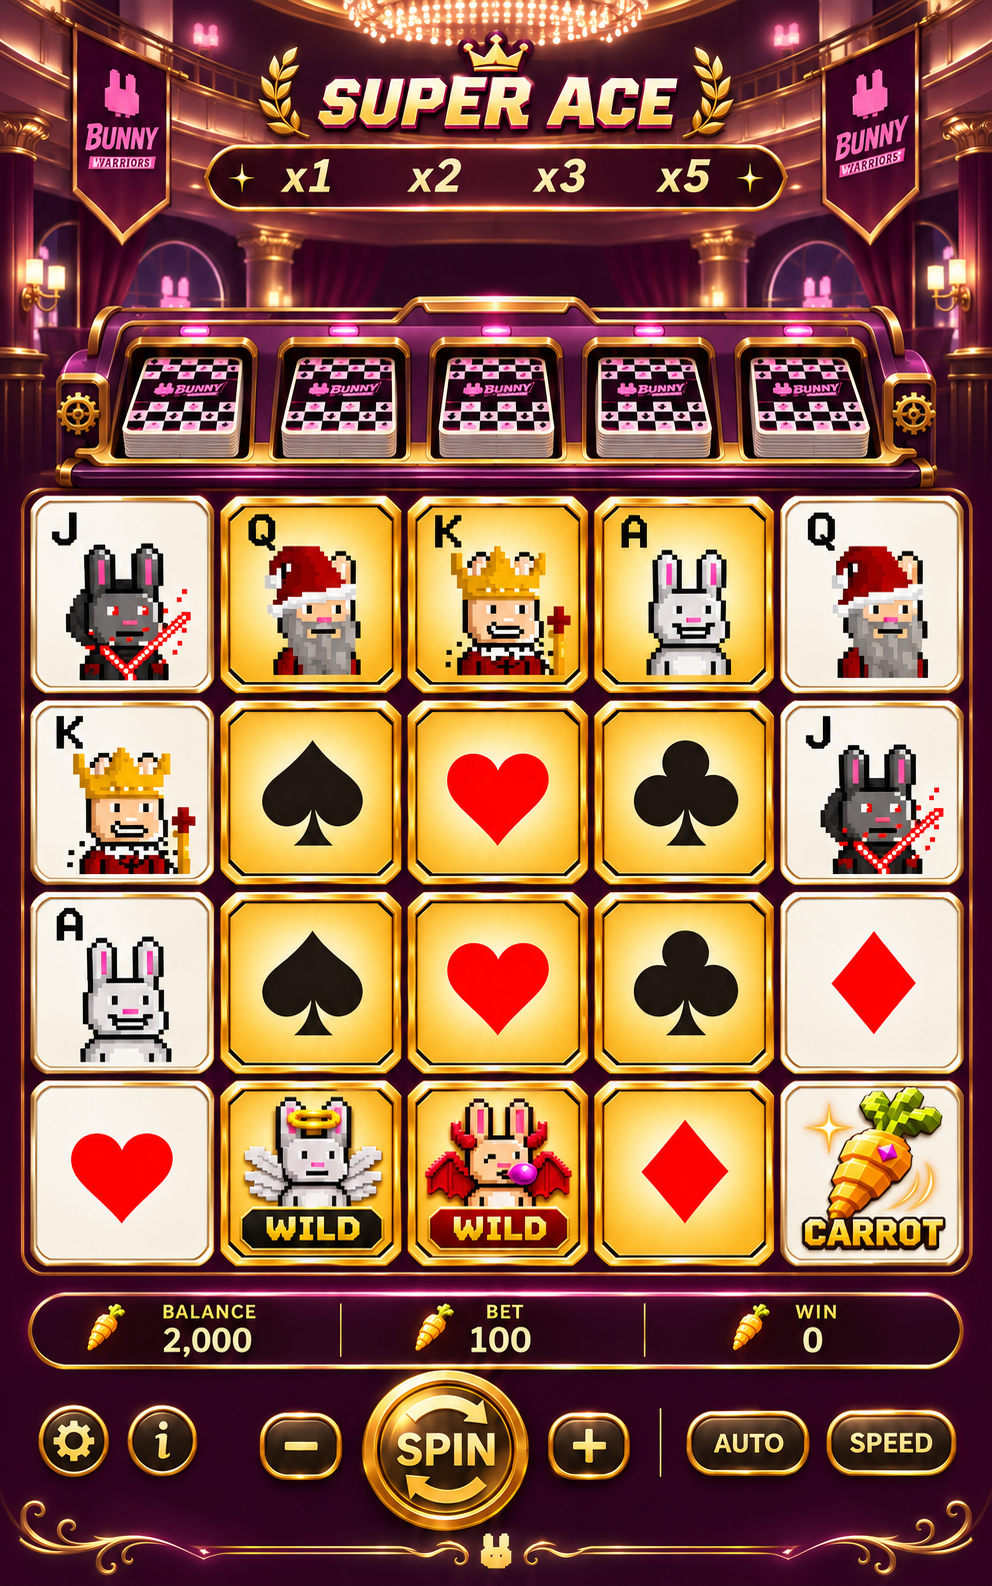
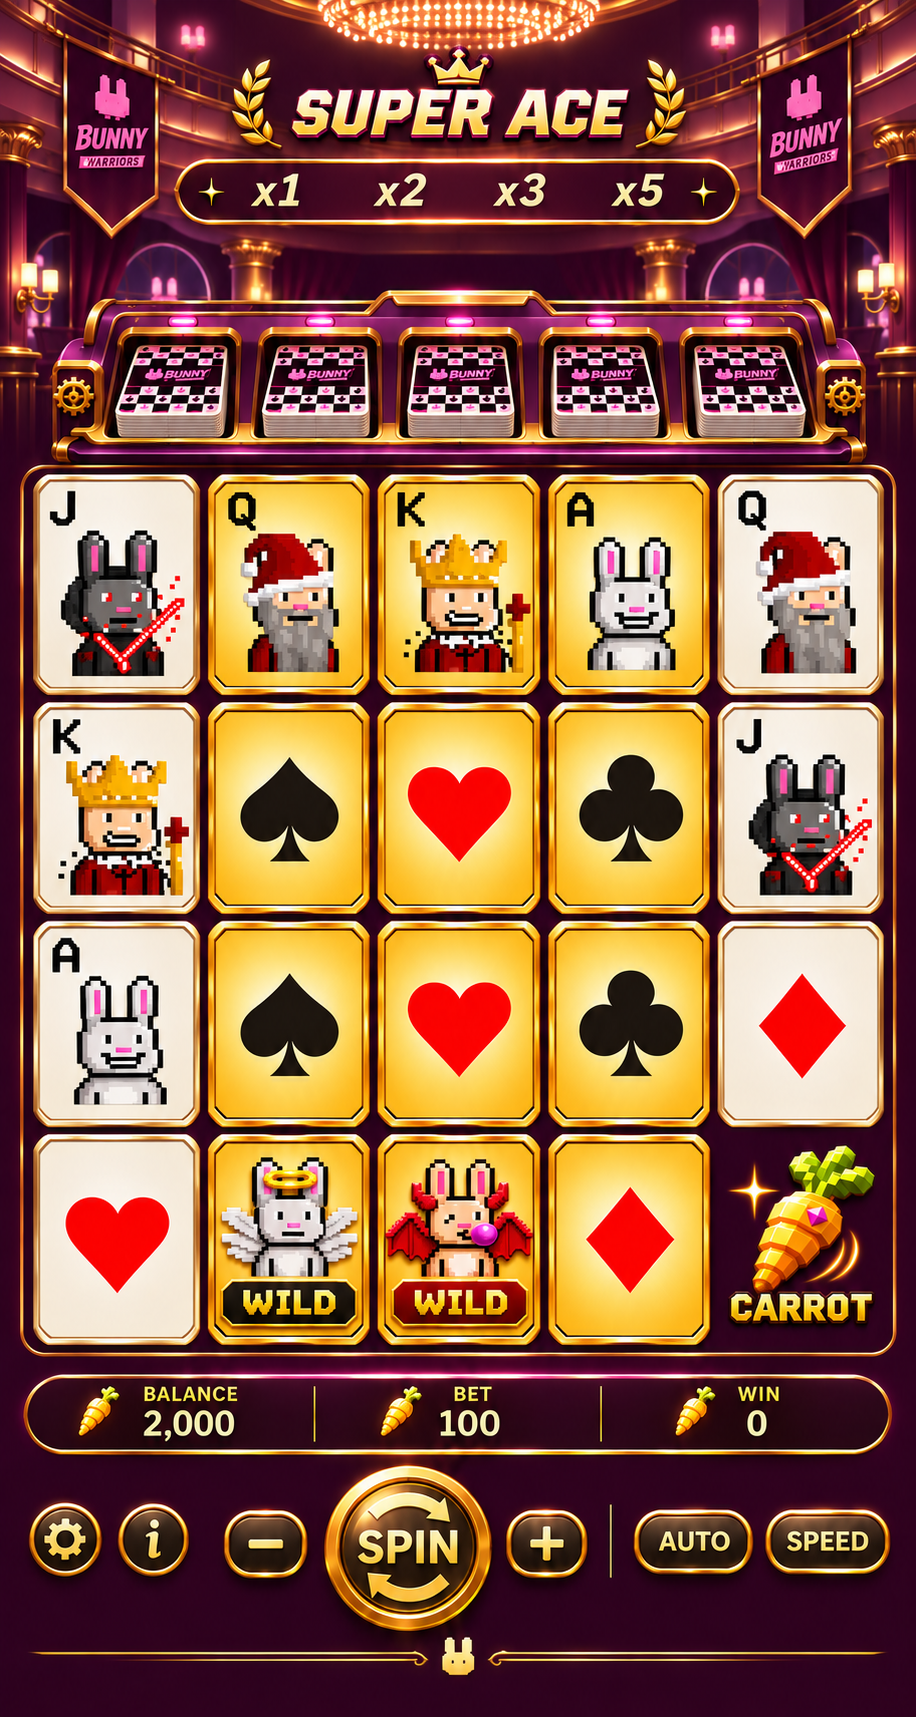
Revise portrait art with upright playing-card proportions and unframed CARROT

diff --git a/ART/SuperAce/README.md b/ART/SuperAce/README.md
@@ -12,7 +12,7 @@
 | [WILD 採用方向](01_Cards/03-approved-wild-direction.png) | 金底、天使黑框金字／惡魔紅框金字，同尺寸 | 使用者已確認方向 |
 | [金框與 CARROT](01_Cards/04-gold-overlay-and-carrot-study.png) | 金框疊在牌內、獨立大金蘿蔔 | 舊圖仍寫 SCATTER，正式名稱已改 CARROT；舊 WILD 配色不採用 |
 | [發牌器](02_Dealer/01-dealer-and-motion-study.png) | 五口發牌器與初版動作 | 造型提案；補牌以後續分鏡為準 |
-| [直屏主畫面](04_UI/01-portrait-layout-proposal.png) | 紫金主畫面整合 | 新提案未確認，有已知問題，見下方 |
+| [直屏主畫面](04_UI/01-portrait-layout-proposal.png) | 紫金主畫面、直向長方形牌面 | 已修正方形牌與CARROT底框；仍為視覺提案 |
 | [設定、玩法與教學](04_UI/02-settings-help-tutorial-proposal.png) | 六組視窗 | 新提案；不是正式規則或賠付表 |
 | [免費遊戲與得獎](04_UI/03-free-game-and-rewards-proposal.png) | 六個畫面狀態 | 新提案；盤面縮圖不作規則依據 |
 
@@ -38,7 +38,7 @@
 
 ## 新提案已知問題／待修
 
-- 直屏生成稿的 CARROT 仍被加上矩形底框，與已確認方向不符；正式整合需移除。
+- 直屏已改為直向長方形牌面，CARROT底框已移除；設計目標625:835，正式素材須精準鎖定，生成圖不是像素尺寸驗收依據。
 - 直屏的普通／金牌框與元素比例有漂移；正式版應重用同一底圖，疊加內框。
 - 直屏 WIN0 與示意牌面尚未用判獎程式一致性驗證，不是有效結果範例。
 - 免費遊戲與設定／教學提案的小盤面格數不一致；教學高亮並非有效中獎示範，需用固定5×4盤面重排。

diff --git a/ART/SuperAce/GALLERY.md b/ART/SuperAce/GALLERY.md
@@ -89,3 +89,7 @@
 ## 90_History/10-initial-ui-board.png
 
 ![10-initial-ui-board](90_History/10-initial-ui-board.png)
+
+## 舊版方形牌布局（已取代）
+
+![舊版](90_History/11-superseded-square-card-layout.png)
